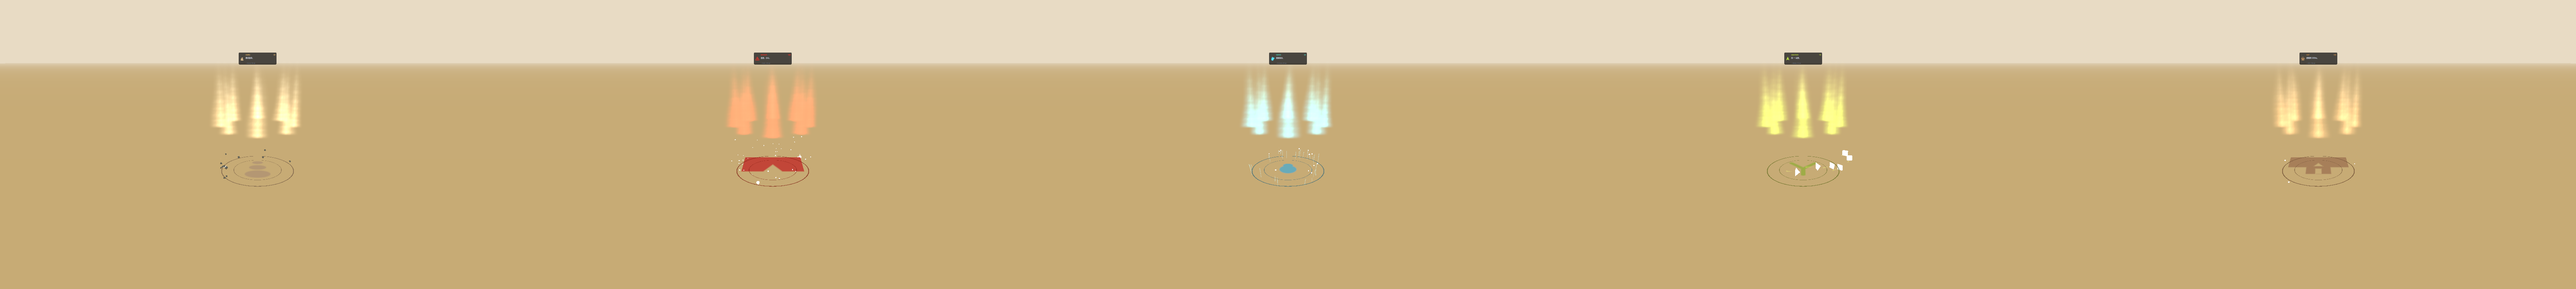
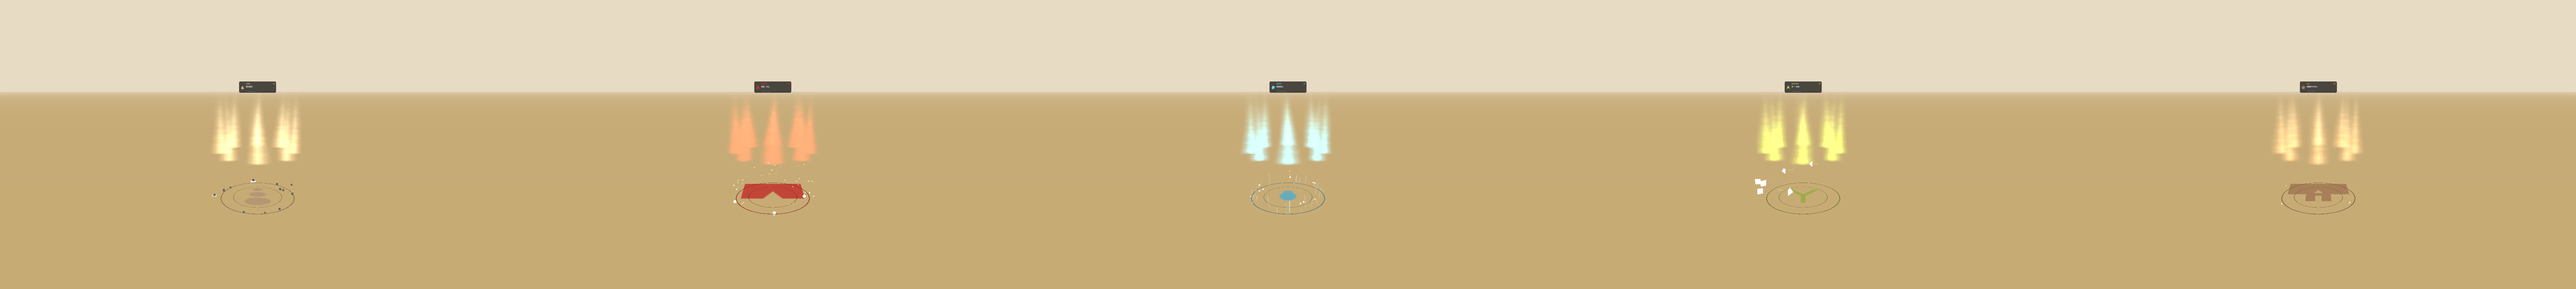
v024 V5.33: cam lookAt 0.4→0.8 让 ring 上移视觉接合

Changed region(s): [[0.0, 0.1833, 1.0, 0.7028], [0.4688, 0.6722, 0.5312, 0.7028], [0.6875, 0.6417, 0.7188, 0.6722]]

diff --git a/UnityARLib/Assets/Editor/V024CapturePlayground.cs b/UnityARLib/Assets/Editor/V024CapturePlayground.cs
@@ -456,8 +456,10 @@ namespace Cairn.AR.Editor
                 //   cam (0,1.6,-3.5) lookAt (0,1.0,0) 让 ring (y=0) 投影在画面下半,
                 //   ribbon 升 3m 投影在上半,中间 250px 空白
                 //   修: lookAt y 1.0→0.4 让 ring + ribbon 同框
+                // V5.33: ribbon.y 抬到 0.76 后 cam lookAt 0.4 让 ring 太靠下
+                //   修: lookAt 0.4→0.8 让 cam 中心对准 ribbon 中段, ring 上移视觉接合
                 cam.transform.position = clusterPos + new Vector3(0f, 1.6f, -3.5f);
-                cam.transform.LookAt(clusterPos + new Vector3(0f, 0.4f, 0f));
+                cam.transform.LookAt(clusterPos + new Vector3(0f, 0.8f, 0f));
 
                 // V2.2 P0a fix: 隐藏其他 cluster,避免相机视锥内出现穿帮(右下红色 danger 三角)
                 // 5 cluster 摆在 (-6/-3/0/3/6) X 轴,相机俯拍当前 cluster 时其他 cluster 仍在视场内
